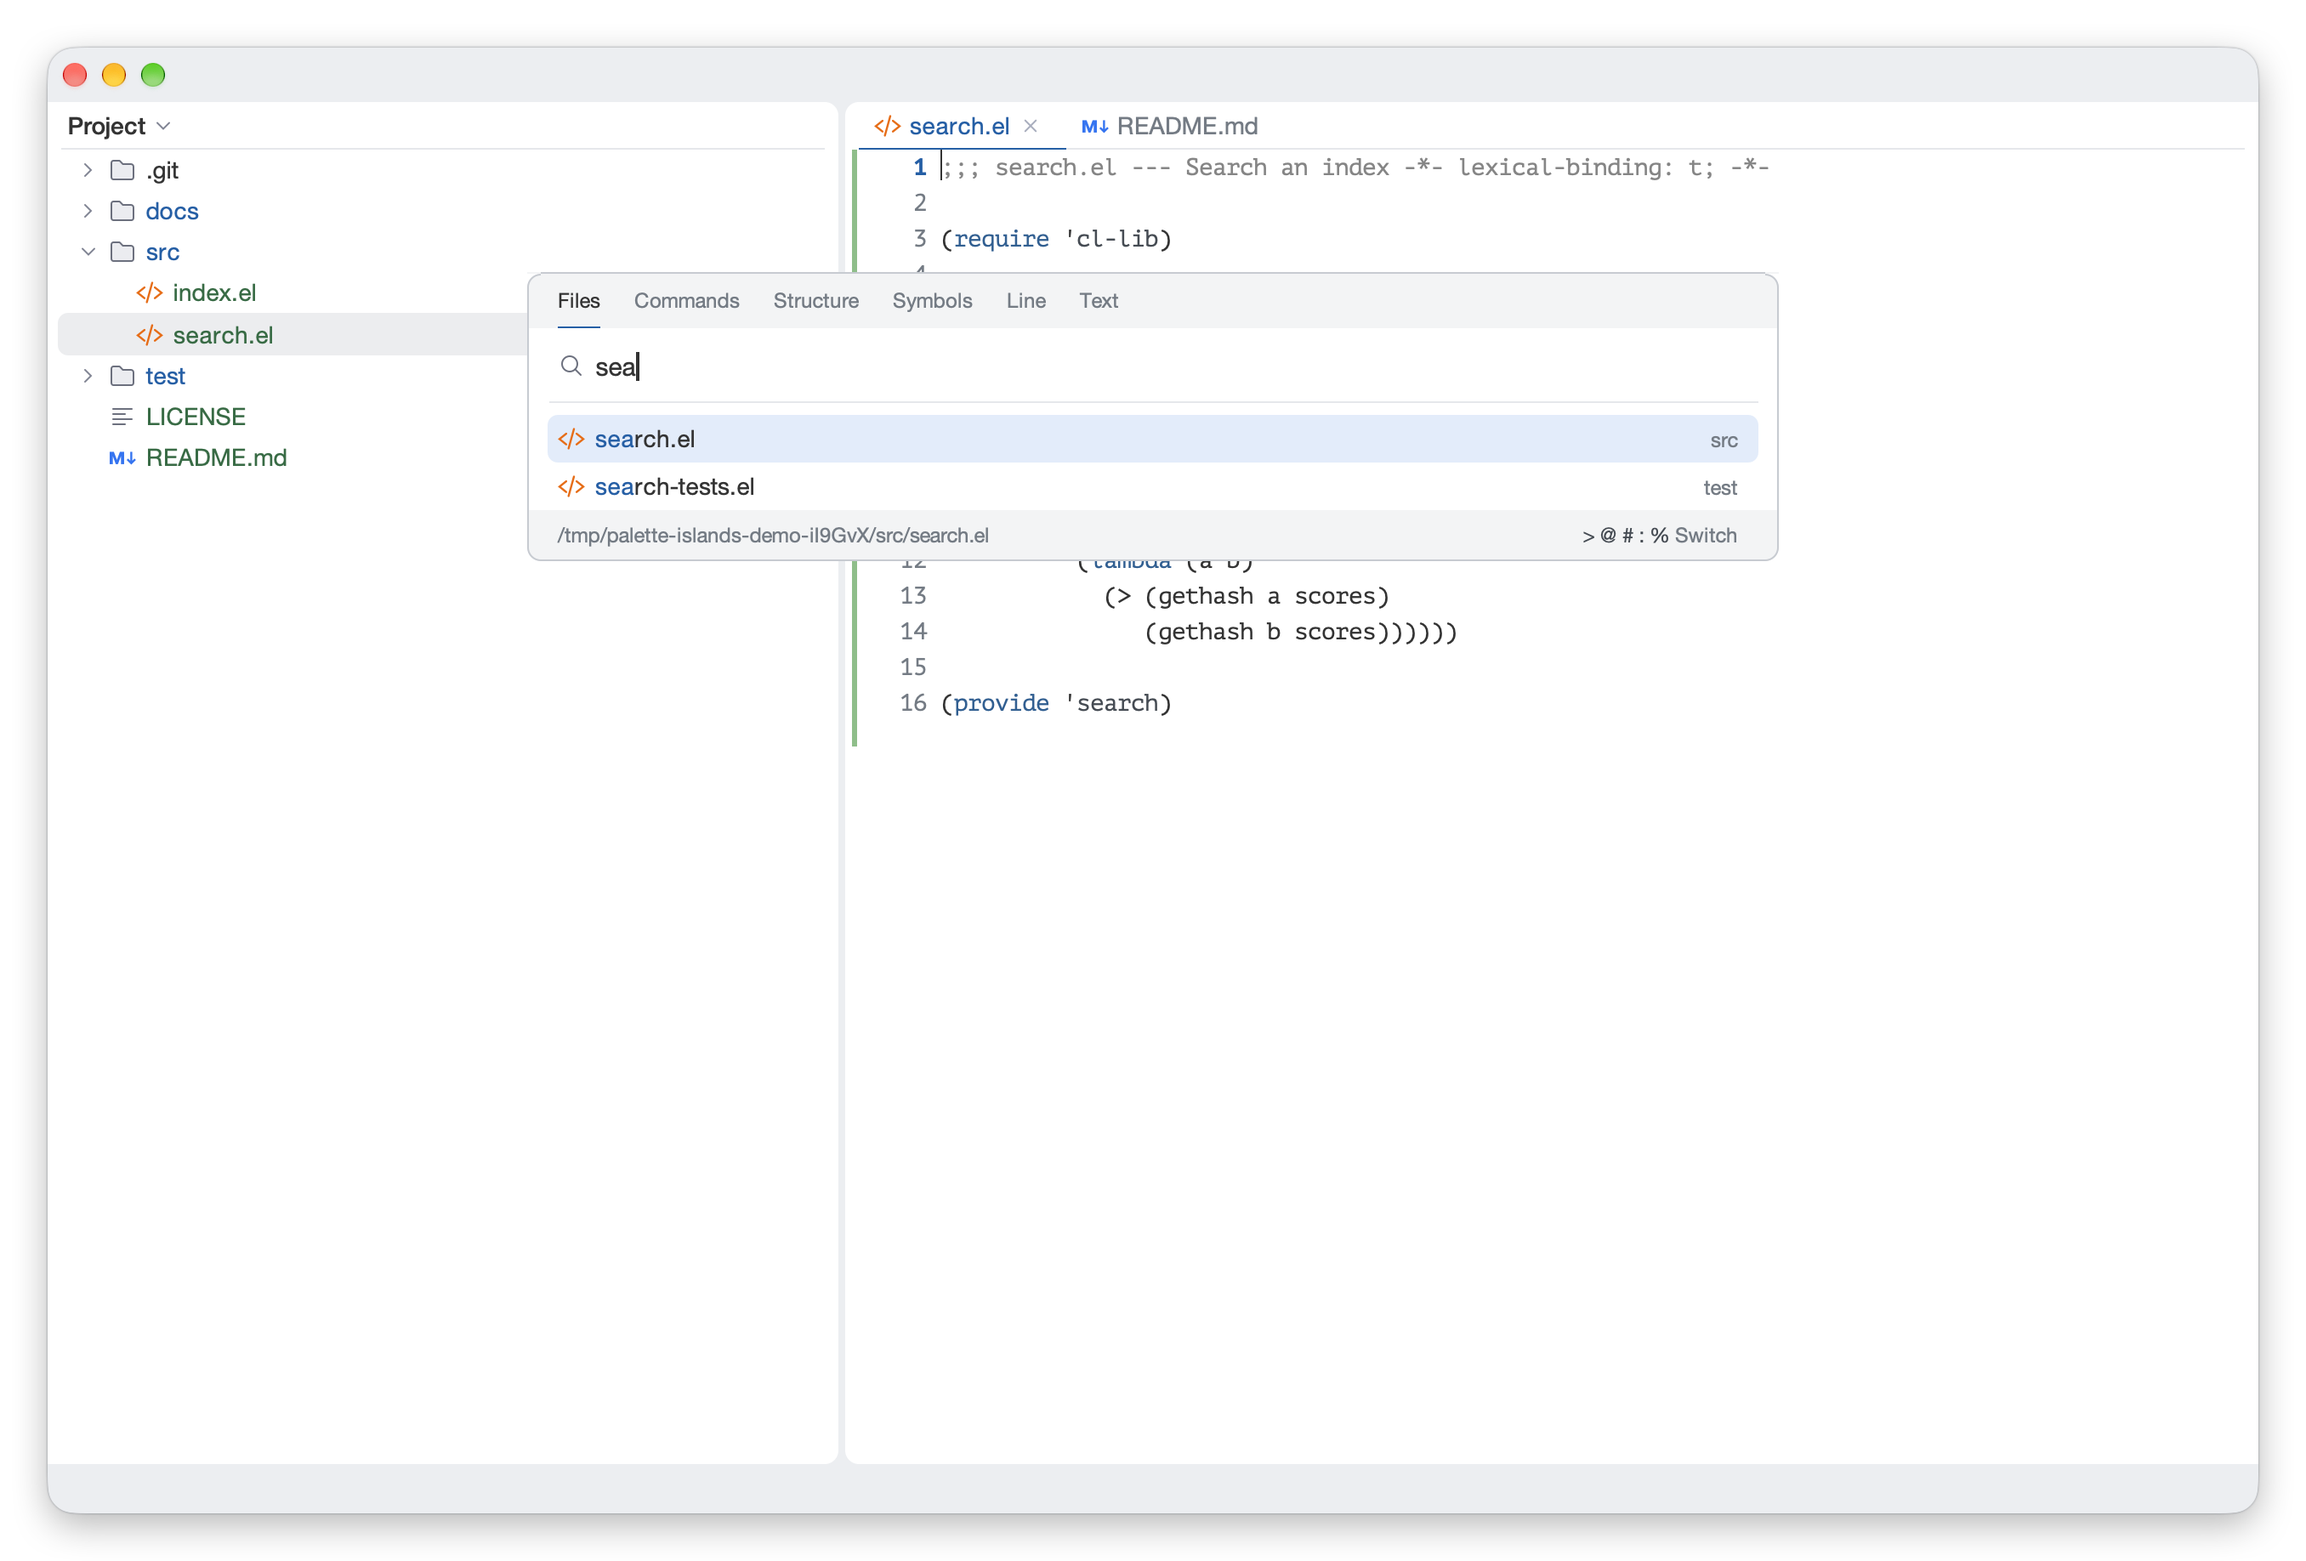
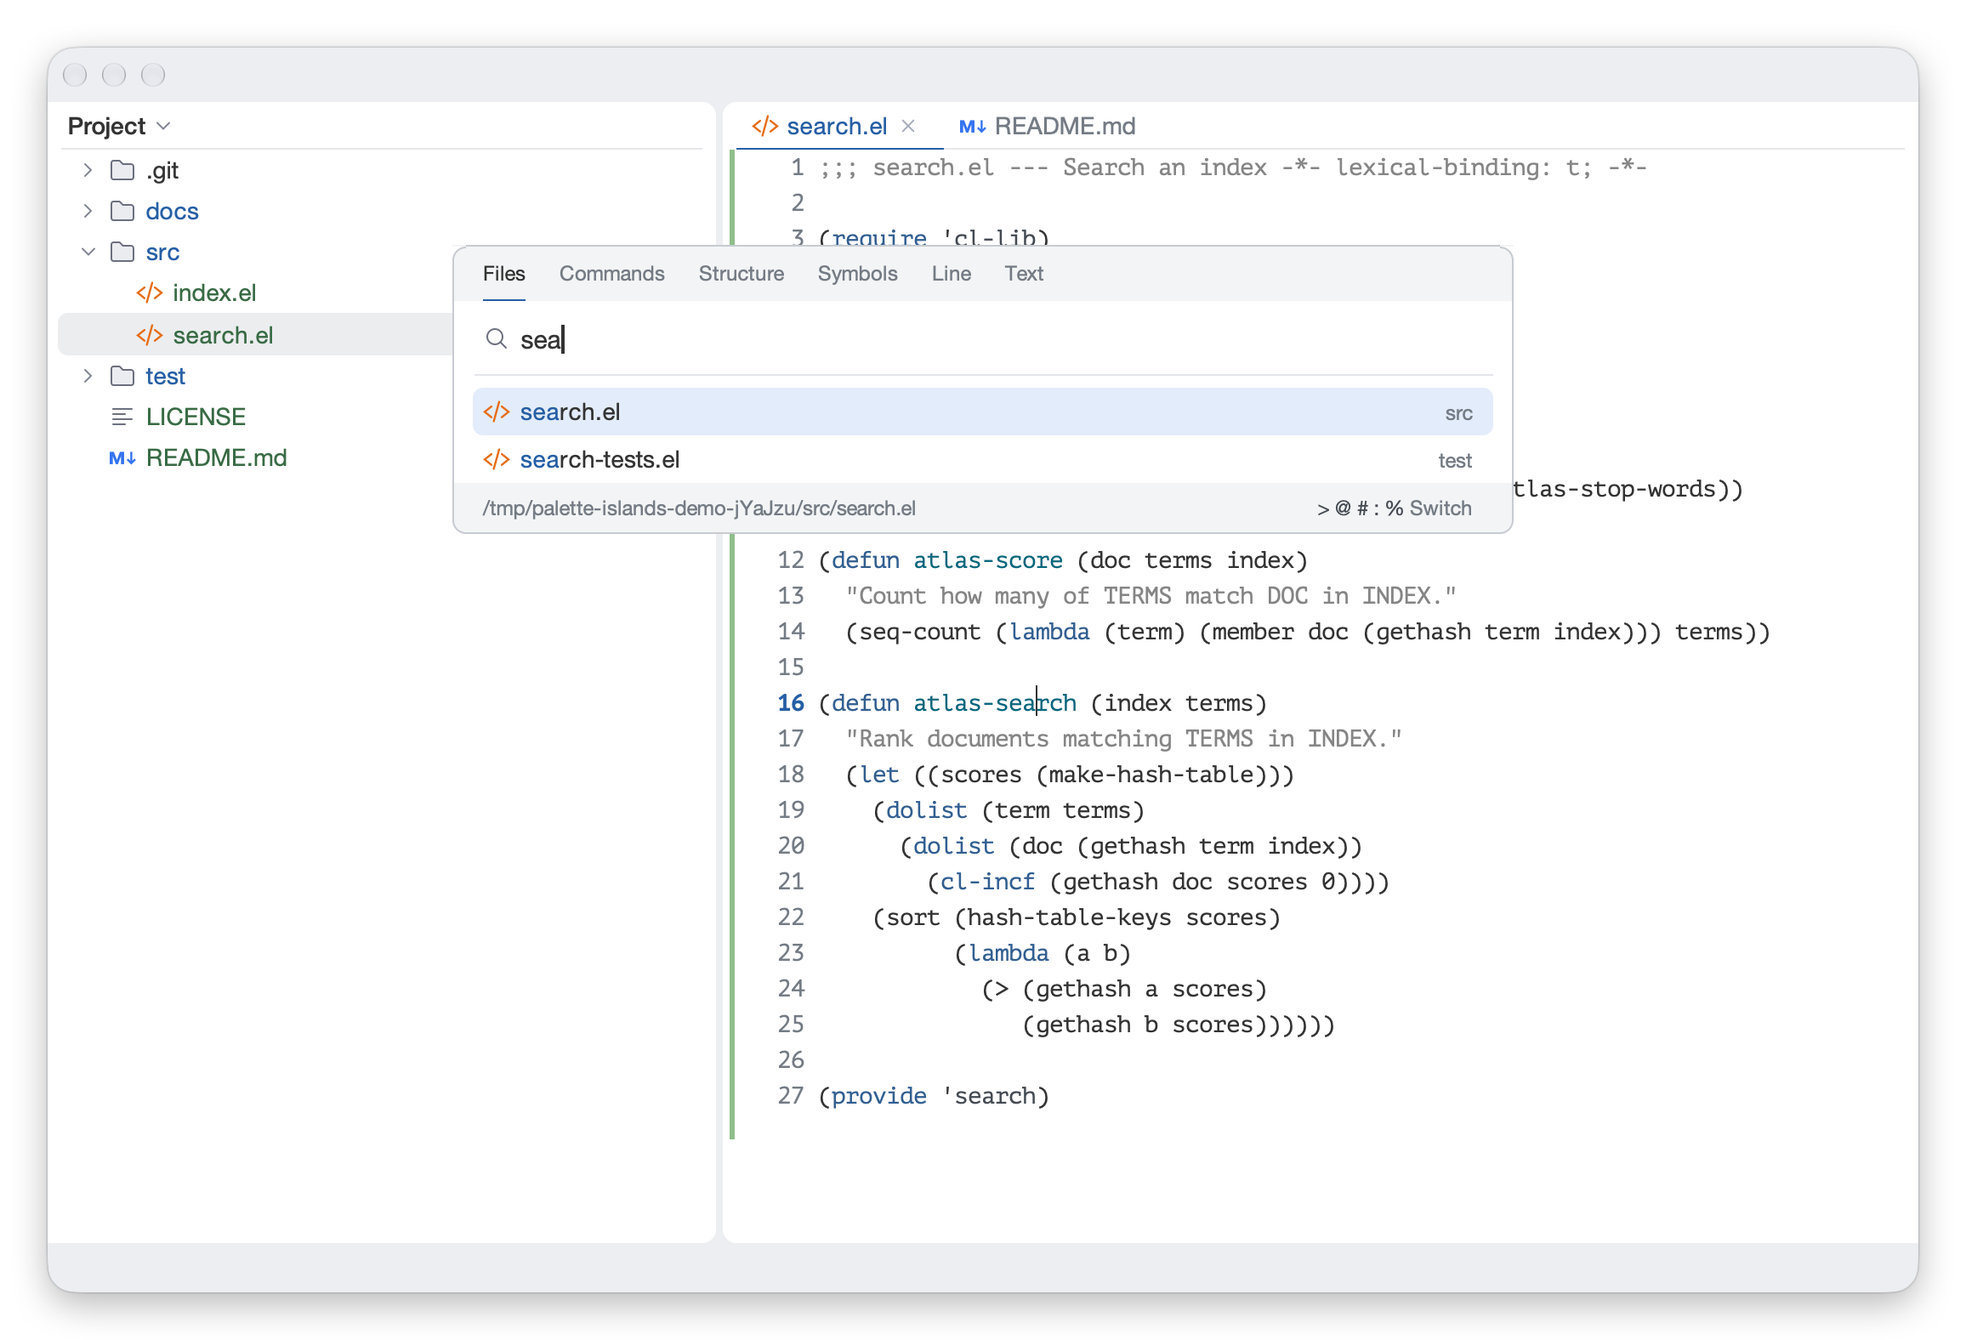
Show the panel's main views in the READMEs
One image cannot show them, as only one panel opens at a time.  Add
Commands, Structure and a panel at point, and give the demo project
enough content for them.

diff --git a/docs/screenshots.md b/docs/screenshots.md
@@ -1,6 +1,7 @@
 # Screenshots
 
-`hero.png` shows Palette Islands inside a personal Emacs configuration.
+`hero.png`, `commands.png`, `structure.png` and `point.png` show Palette Islands
+inside a personal Emacs configuration.
 `emacs-q.png` is a real window capture of graphical Emacs 31.1 on macOS,
 started with `-Q`: no init file, theme, font changes or Palette Islands
 customization. Only the package and its dependencies are loaded. The window
@@ -40,10 +41,13 @@ window stands out on both light and dark pages. The window's pixels are unchange
 
 ## Personal configuration capture
 
-The current `hero.png` loads the actual `.emacs.d/early-init.el` and
-`.emacs.d/init.el`, including its theme, islands, tabs and sidebar, in a
-separate graphical Emacs process, followed by the same demo script. Runtime
-files are redirected to a temporary `user-emacs-directory`; the existing
-Tree-sitter grammars are linked there. The frame is resized to 1300 × 830
-content pixels and `sea` is typed into the search window. It is a window capture,
-including native window chrome, with the margin described above.
+These images load the actual `.emacs.d/early-init.el` and `.emacs.d/init.el`,
+including its theme, islands, tabs and sidebar, in a separate graphical Emacs
+process, followed by the same demo script. Runtime files are redirected to a
+temporary `user-emacs-directory`; the existing Tree-sitter grammars are linked
+there. The frame is resized to 1100 × 700 content pixels. In the search window,
+`hero.png` has `sea` typed, `commands.png` `>project` and `structure.png` `@`.
+`point.png` runs the snippet under "For other packages" in the README, with
+point on `atlas-search`; its three candidates are written by hand, and name
+real lines of the demo project. They are window captures, including native
+window chrome, with the margin described above.

diff --git a/README.md b/README.md
@@ -23,6 +23,21 @@ A JetBrains-style floating panel for the Emacs minibuffer, on top of
 Every minibuffer that reads through Vertico gets the panel, with no changes to
 the commands. On text terminals the minibuffer stays in the echo area.
 
+## Screenshots
+
+Commands, with their keys at the right and the selected one's documentation in
+the footer:
+
+![The Commands tab listing project commands, with key bindings and documentation](docs/commands.png)
+
+This file's structure, grouped by kind:
+
+![The Structure tab listing a file's variables and functions in groups](docs/structure.png)
+
+A panel at point, for choices about the symbol under it:
+
+![A panel below the symbol at point, listing its usages](docs/point.png)
+
 ## Without an Emacs configuration
 
 The title image above uses a personal Emacs configuration. Here is Palette
@@ -209,7 +224,17 @@ with `(load "/path/to/palette-islands/examples/style.el")`.
 
 Let-bind `palette-islands-placement` around code that reads from the minibuffer
 (`palette`, `point`, or `nil` for the echo area), and `palette-islands-anchor` to
-drop a panel from a button. In the minibuffer, `palette-islands-set-status`,
+drop a panel from a button:
+
+```elisp
+(let ((palette-islands-placement 'point))
+  (completing-read "Usages of atlas-search: "
+                   '("src/search.el:16  (defun atlas-search (index terms)"
+                     "test/search-tests.el:4  (atlas-search index '(\"rank\"))"
+                     "docs/usage.md:3  Call atlas-search with a list of terms.")))
+```
+
+In the minibuffer, `palette-islands-set-status`,
 `palette-islands-set-action`, `palette-islands-set-tabs` and
 `palette-islands-set-prefix` fill the header and footer.
 

diff --git a/README.zh-CN.md b/README.zh-CN.md
@@ -19,6 +19,20 @@
 所有通过 Vertico 读取的 minibuffer 都会显示为面板，无需改动命令本身。
 在文本终端里 minibuffer 留在回显区。
 
+## 截图
+
+命令列表，右侧是按键，页脚是选中命令的文档：
+
+![Commands 标签列出项目相关命令，带按键和文档](docs/commands.png)
+
+当前文件的结构，按类型分组：
+
+![Structure 标签按组列出文件里的变量和函数](docs/structure.png)
+
+光标处的面板，用于对当前符号做选择：
+
+![光标处符号下方的面板，列出它的用法](docs/point.png)
+
 ## 不加载个人配置的效果
 
 上方题图使用了个人 Emacs 配置。下图是在 `emacs -Q` 中仅加载 Palette Islands
@@ -193,7 +207,17 @@
 ### 供其他包使用
 
 在读取 minibuffer 的代码外 let 绑定 `palette-islands-placement`（`palette`、`point`，
-或 `nil` 表示回显区），用 `palette-islands-anchor` 让面板从按钮下方弹出。在 minibuffer 里，
+或 `nil` 表示回显区），用 `palette-islands-anchor` 让面板从按钮下方弹出：
+
+```elisp
+(let ((palette-islands-placement 'point))
+  (completing-read "Usages of atlas-search: "
+                   '("src/search.el:16  (defun atlas-search (index terms)"
+                     "test/search-tests.el:4  (atlas-search index '(\"rank\"))"
+                     "docs/usage.md:3  Call atlas-search with a list of terms.")))
+```
+
+在 minibuffer 里，
 `palette-islands-set-status`、`palette-islands-set-action`、`palette-islands-set-tabs`
 和 `palette-islands-set-prefix` 用于填写页眉和页脚。
 
